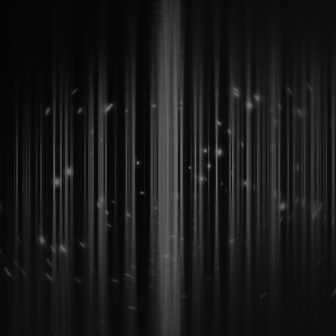
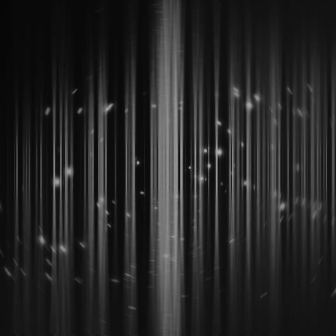
Adds none background option Consolidates background & color

diff --git a/settings/index.tsx b/settings/index.tsx
@@ -1,39 +1,36 @@
-function friendlyColor(color: string | undefined) {
-	const name = color?.replace(/"/g, '')?.substr(3) ?? '';
-	if (!name) return name;
-
-	if (name === 'black') return 'None';
-	if (name === 'light-gray') return 'Gray';
-	return `${name[0].toUpperCase()}${name.substr(1)}`;
-}
-
-function friendlyOpacity(value: string | undefined) {
-	return `${Number(value ?? 100)}%`;
-}
-
-function friendlyInterval(value: string | undefined) {
-	return Number(value) === 1000 ? '1 second' : `${Number(value) / 1000} seconds`;
-}
+const colors = [
+	{ value: 'fb-dark-gray', color: '#505050' },
+	{ value: 'fb-light-gray', color: '#A0A0A0' },
+	{ value: 'fb-white', color: '#FFFFFF' },
+	{ value: 'fb-lavender', color: '#8173FF' },
+	{ value: 'fb-slate', color: '#7090B5' },
+	{ value: 'fb-blue', color: '#4D86FF' },
+	{ value: 'fb-cyan', color: '#15B9ED' },
+	{ value: 'fb-aqua', color: '#3BF7DE' },
+	{ value: 'fb-cerulean', color: '#8080FF' },
+	{ value: 'fb-indigo', color: '#5B4CFF' },
+	{ value: 'fb-purple', color: '#C658FB' },
+	{ value: 'fb-violet', color: '#D828B8' },
+	{ value: 'fb-plum', color: '#A51E7C' },
+	{ value: 'fb-magenta', color: '#F1247C' },
+	{ value: 'fb-pink', color: '#FF78B7' },
+	{ value: 'fb-red', color: '#FA4D61' },
+	{ value: 'fb-orange', color: '#FF752D' },
+	{ value: 'fb-peach', color: '#FFCC33' },
+	{ value: 'fb-yellow', color: '#F0A500' },
+	{ value: 'fb-lime', color: '#72B314' },
+	{ value: 'fb-mint', color: '#5BE37D' },
+	{ value: 'fb-green', color: '#2CB574' },
+];
 
 const backgroundOptions = [
+	{ name: 'None', description: '', value: 'none' },
 	{ name: 'Beams', description: '', value: 'beams' },
 	{ name: 'Glow', description: '', value: 'glow' },
 	{ name: 'Lines', description: '', value: 'lines' },
 	{ name: 'Swirl', description: '', value: 'swirl' },
 	{ name: 'Swirl (Crystalline)', description: '', value: 'swirl-crystalline' },
 ];
-
-function getBackgroundIndex(value: string | undefined) {
-	let count = 0;
-	for (const option of backgroundOptions) {
-		if (value === `"${option.value}"`) {
-			return count;
-		}
-		count++;
-	}
-
-	return 1;
-}
 
 const debug = false;
 
@@ -59,7 +56,7 @@ function PureSettings(props: SettingsComponentProps) {
 				}
 			>
 				<Text align="center">
-					A beautifully designed, highly customizable, clean, and simple clock face for Fitbit Versa devices.
+					A beautifully designed, customizable, clean and simple clock face for Fitbit Sense & Versa devices.
 				</Text>
 			</Section>
 
@@ -87,7 +84,7 @@ function PureSettings(props: SettingsComponentProps) {
 						label="🔒 Activity Stats"
 						sublabel="See your steps, distance, active minutes, and calories"
 					/>
-					<TextImageRow label="🔒 Theming" sublabel="Choose colors that suit your style" />
+					<TextImageRow label="🔒 Theming" sublabel="Choose a background and colors that suit your style" />
 					<TextImageRow
 						label="🔒 On-device Quick Toggles"
 						sublabel="Change the look and feel, right on your wrist"
@@ -135,16 +132,16 @@ function PureSettings(props: SettingsComponentProps) {
 								Theming<Text> (PRO)</Text>
 							</Text>
 						}
-						sublabel={<Text align="center">Choose a background & colors that suit your style</Text>}
+						sublabel={<Text align="center">Choose a background and colors that suit your style</Text>}
 					/>
 				}
 			>
-				{!donated && <Text>🔒 Background Style</Text>}
+				{!donated && <Text>🔒 Background</Text>}
 				{donated && (
 					<Select
-						label={'Background Style'}
+						label={'Background'}
 						selected={[getBackgroundIndex(props.settings.background)]}
-						selectViewTitle="Background Style"
+						selectViewTitle="Background"
 						options={backgroundOptions}
 						renderItem={option => <TextImageRow label={option.name} sublabel={option.description} />}
 						onSelection={selection =>
@@ -177,38 +174,10 @@ function PureSettings(props: SettingsComponentProps) {
 						</Text>
 					)}
 				</Text>
-				{donated && (
-					<ColorSelect
-						settingsKey="accentBackgroundColor"
-						colors={[
-							{ value: 'fb-black', color: '#000000' },
-							{ value: 'fb-light-gray', color: '#A0A0A0' },
-							{ value: 'fb-white', color: '#FFFFFF' },
-							{ value: 'fb-lavender', color: '#BCD8F8' },
-							{ value: 'fb-slate', color: '#7090B5' },
-							{ value: 'fb-blue', color: '#3182DE' },
-							{ value: 'fb-cyan', color: '#14D3F5' },
-							{ value: 'fb-aqua', color: '#3BF7DE' },
-							{ value: 'fb-cerulean', color: '#8080FF' },
-							{ value: 'fb-indigo', color: '#5B4CFF' },
-							{ value: 'fb-purple', color: '#BD4EFC' },
-							{ value: 'fb-violet', color: '#D828B8' },
-							{ value: 'fb-plum', color: '#A51E7C' },
-							{ value: 'fb-magenta', color: '#F80070' },
-							{ value: 'fb-pink', color: '#F83478' },
-							{ value: 'fb-red', color: '#F83C40' },
-							{ value: 'fb-orange', color: '#FC6B3A' },
-							{ value: 'fb-peach', color: '#FFCC33' },
-							{ value: 'fb-yellow', color: '#E4FA3C' },
-							{ value: 'fb-lime', color: '#B8FC68' },
-							{ value: 'fb-mint', color: '#5BE37D' },
-							{ value: 'fb-green', color: '#00A629' },
-						]}
-					/>
-				)}
+				{donated && <ColorSelect settingsKey="accentBackgroundColor" colors={colors} />}
 
 				<Text>
-					{donated ? '' : '🔒 '}Accent Color
+					{donated ? '' : '🔒 '}Text Accent Color
 					{donated && (
 						<Text bold>
 							<Text>: </Text>
@@ -216,34 +185,7 @@ function PureSettings(props: SettingsComponentProps) {
 						</Text>
 					)}
 				</Text>
-				{donated && (
-					<ColorSelect
-						settingsKey="accentForegroundColor"
-						colors={[
-							{ value: 'fb-light-gray', color: '#A0A0A0' },
-							{ value: 'fb-white', color: '#FFFFFF' },
-							{ value: 'fb-lavender', color: '#BCD8F8' },
-							{ value: 'fb-slate', color: '#7090B5' },
-							{ value: 'fb-blue', color: '#3182DE' },
-							{ value: 'fb-cyan', color: '#14D3F5' },
-							{ value: 'fb-aqua', color: '#3BF7DE' },
-							{ value: 'fb-cerulean', color: '#8080FF' },
-							{ value: 'fb-indigo', color: '#5B4CFF' },
-							{ value: 'fb-purple', color: '#BD4EFC' },
-							{ value: 'fb-violet', color: '#D828B8' },
-							{ value: 'fb-plum', color: '#A51E7C' },
-							{ value: 'fb-magenta', color: '#F80070' },
-							{ value: 'fb-pink', color: '#F83478' },
-							{ value: 'fb-red', color: '#F83C40' },
-							{ value: 'fb-orange', color: '#FC6B3A' },
-							{ value: 'fb-peach', color: '#FFCC33' },
-							{ value: 'fb-yellow', color: '#E4FA3C' },
-							{ value: 'fb-lime', color: '#B8FC68' },
-							{ value: 'fb-mint', color: '#5BE37D' },
-							{ value: 'fb-green', color: '#00A629' },
-						]}
-					/>
-				)}
+				{donated && <ColorSelect settingsKey="accentForegroundColor" colors={colors} />}
 			</Section>
 
 			<Section title={<TextImageRow label={<Text align="center">Date &amp; Time Display</Text>} />}>
@@ -322,3 +264,32 @@ function PureSettings(props: SettingsComponentProps) {
 }
 
 registerSettingsPage(PureSettings);
+
+function friendlyColor(color: string | undefined) {
+	const name = color?.replace(/"/g, '')?.substr(3) ?? '';
+	if (!name) return name;
+
+	if (name === 'dark-gray') return 'Dark Gray';
+	if (name === 'light-gray') return 'Gray';
+	return `${name[0].toUpperCase()}${name.substr(1)}`;
+}
+
+function friendlyInterval(value: string | undefined) {
+	return Number(value) === 1000 ? '1 second' : `${Number(value) / 1000} seconds`;
+}
+
+function friendlyOpacity(value: string | undefined) {
+	return `${Number(value ?? 100)}%`;
+}
+
+function getBackgroundIndex(value: string | undefined) {
+	let count = 0;
+	for (const option of backgroundOptions) {
+		if (value === `"${option.value}"`) {
+			return count;
+		}
+		count++;
+	}
+
+	return 1;
+}

diff --git a/app/appManager.ts b/app/appManager.ts
@@ -14,7 +14,7 @@ const screenHeight = device.screen.height;
 const screenWidth = device.screen.width;
 
 const colors: Colors[] = [
-	'fb-black',
+	'fb-dark-gray',
 	'fb-light-gray',
 	'fb-white',
 	'fb-lavender',
@@ -235,7 +235,6 @@ export class AppManager {
 			let $el: StyledElement;
 			while (i--) {
 				$el = $els[i];
-				$el.style.visibility = color === 'fb-black' ? 'hidden' : 'visible';
 				$el.style.fill = color;
 			}
 		}
@@ -287,13 +286,21 @@ export class AppManager {
 		}
 
 		if (e?.key == null || e?.key === 'background') {
-			const background = configuration.get('background');
-			document.getElementById<ImageElement>('background')!.href = `images/bg-${background}_336.png`;
+			const $background = document.getElementById<ImageElement>('background')!;
+
+			const background = configuration.get('donated') ? configuration.get('background') : 'none';
+			if (background === 'none') {
+				$background.style.visibility = 'hidden';
+			} else {
+				$background.href = `images/bg-${background}_336.png`;
+				$background.style.visibility = 'visible';
+			}
 		}
 
 		if (e?.key == null || e?.key === 'backgroundOpacity') {
-			const opacity = configuration.get('backgroundOpacity') / 100;
 			const $background = document.getElementById<ImageElement>('background')!;
+
+			const opacity = configuration.get('backgroundOpacity') / 100;
 			$background.style.opacity = opacity;
 			($background.children[0] as AnimateElement).to = opacity;
 			($background.children[1] as AnimateElement).from = opacity;
@@ -361,10 +368,6 @@ export class AppManager {
 			vibration.start('bump');
 
 			let color = configuration.get('accentBackgroundColor');
-			// if (color === 'fb-dark-gray') {
-			// 	color = 'fb-black';
-			// }
-
 			let index = colors.indexOf(color) + 1;
 			if (index >= colors.length) {
 				index = 0;
@@ -372,7 +375,7 @@ export class AppManager {
 
 			color = colors[index];
 			configuration.set('accentBackgroundColor', color);
-			configuration.set('accentForegroundColor', color === 'fb-black' ? 'fb-white' : color);
+			configuration.set('accentForegroundColor', color);
 		} else if (e.screenX >= 236 && e.screenY >= 108 && e.screenY <= 188) {
 			vibration.start('bump');
 			configuration.set('showSeconds', !configuration.get('showSeconds'));
@@ -470,7 +473,7 @@ export class AppManager {
 	// DEMO MODE
 	// demo() {
 	// 	display.on = false;
-	// 	configuration.set('accentBackgroundColor', 'fb-black');
+	// 	configuration.set('accentBackgroundColor', 'fb-light-gray');
 	// 	configuration.set('accentForegroundColor', 'fb-white');
 	// 	configuration.set('currentActivityView', 0);
 

diff --git a/common/config.ts b/common/config.ts
@@ -1,7 +1,6 @@
-export type Backgrounds = 'beams' | 'glow' | 'lines' | 'swirl' | 'swirl-crystalline';
+export type Backgrounds = 'none' | 'beams' | 'glow' | 'lines' | 'swirl' | 'swirl-crystalline';
 
 export type Colors =
-	| 'fb-black'
 	| 'fb-dark-gray'
 	| 'fb-light-gray'
 	| 'fb-white'
@@ -54,7 +53,7 @@ export interface Config {
 export const defaultConfig: Config = {
 	version: 0,
 
-	accentBackgroundColor: 'fb-black',
+	accentBackgroundColor: 'fb-light-gray',
 	accentForegroundColor: 'fb-white',
 	allowEditing: true,
 	animateHeartRate: true,
@@ -63,7 +62,7 @@ export const defaultConfig: Config = {
 	autoRotate: false,
 	autoRotateInterval: 3000,
 	background: 'glow',
-	backgroundOpacity: 65,
+	backgroundOpacity: 80,
 	colorizeHeartRate: true,
 	donated: false,
 	showActivityUnits: true,

diff --git a/README.md b/README.md
@@ -56,7 +56,7 @@ Customizable — choose whether to show the units, or auto-rotate between the da
 
 Choose colors that suit your style
 
-Customizable — choose a background and foreground accent color
+Customizable — choose a background style, background brightness, background color, or accent color
 
 ### On-Device Quick Toggles (**PRO**)
 
